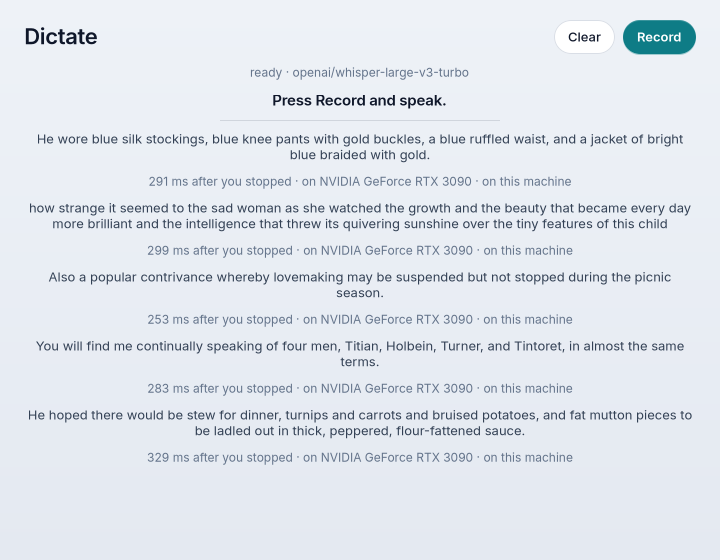
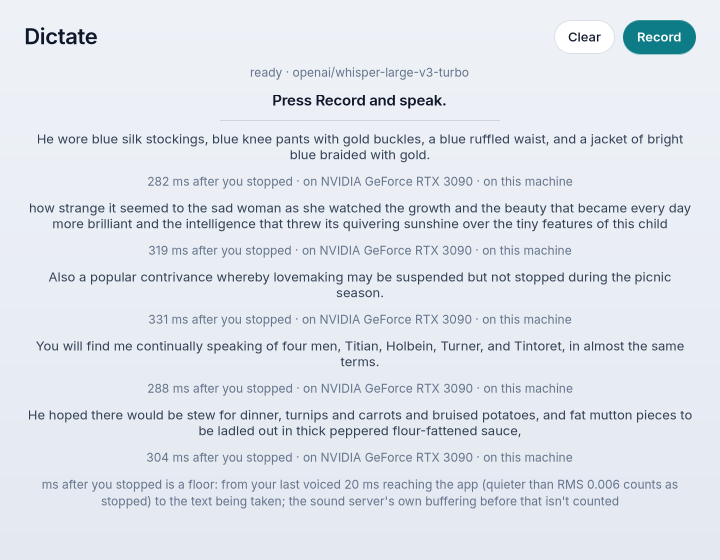
Goal 43 review: the final checker run (M0-M4 PASS) and the screenshot with the readout's floor caption

diff --git a/docs/goals/43-report.md b/docs/goals/43-report.md
@@ -105,11 +105,11 @@ Also: D-1413 changed how the GTK host and present.mojo dlopen (OwnedDLHandle), w
 - Why the shader-f16 is missing (driver lacks a Vulkan 16-bit feature Dawn needs, or Dawn blocks it on this driver): not checked (no vulkaninfo here).
 - The reviewer hasn't re-run on round 1.
 
-## Final checker run
+## Final checker run (review round 1, HEAD after the race commit)
 ```
 M0 PASS: captured the played tone through the sound server, match 0.9902822245095156, the caller never blocked
 M1 PASS: whisper-large-v3-turbo in process, 20 clips, WER 0.030, partials before each clip ends
-M2 PASS: 5 clips through the null sink: WER 0.016, final text 291 ms median / 329 ms p95 after speech ends
-M3 PASS: A 135 ms p50, WER 0.034; B (onnx-community/whisper-large-v3-turbo) 933 ms p50, WER 0.030; cold start 4.6 s vs 7.8 s
+M2 PASS: 5 clips through the null sink: WER 0.016, final text 304 ms median / 331 ms p95 after speech ends
+M3 PASS: A 140 ms p50, WER 0.034; B (onnx-community/whisper-large-v3-turbo) 912 ms p50, WER 0.034; cold start 6.6 s vs 9.9 s; same weights: A fp16 vs B encoder fp32, decoder q4, 6.5x at the median
 M4 PASS: gallery Dictation section with the race's numbers, matrix, llms.txt, EXPERIMENTS; mac built
 ```
